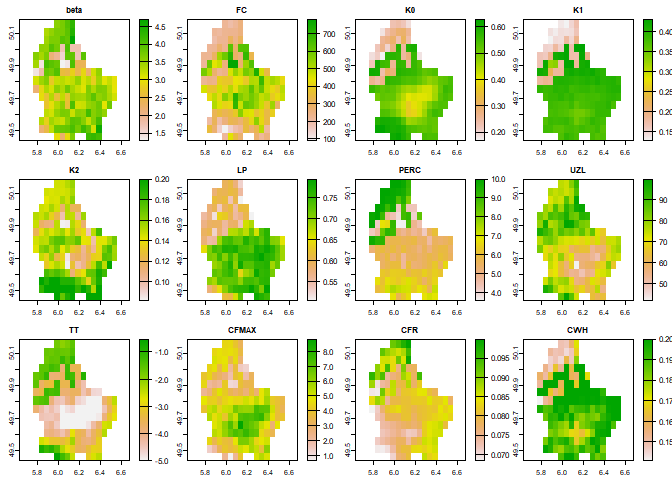
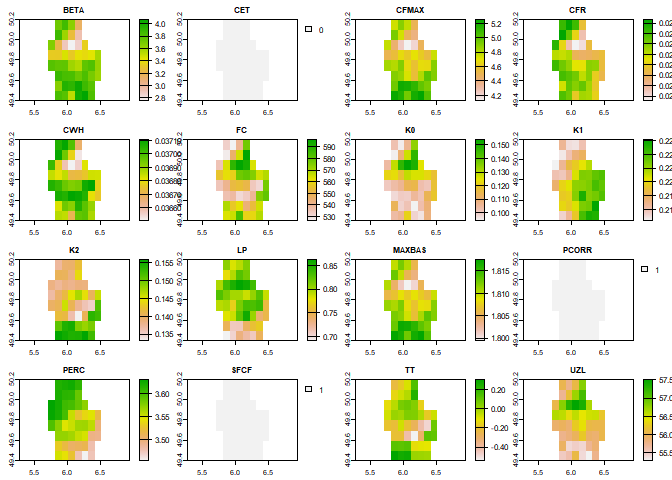
version v0.9 of the HBV dataset added

diff --git a/README.md b/README.md
@@ -1,7 +1,7 @@
 
 <!-- README.md is generated from README.Rmd. Please edit that file -->
 
-# HBVr <img src='man/figures/logo.svg' align="right" height="139" />
+# HBVr <img src='man/figures/logo.webp' align="right" height="139" />
 
 <!-- badges: start -->
 
@@ -57,20 +57,24 @@ zonal_stat <-
 #> Cropping rasters...
 
 zonal_stat
-#> $fold_1
-#>               mean
-#> beta    3.28827362
-#> FC    397.27255745
-#> K0      0.45688133
-#> K1      0.33620186
-#> K2      0.15122986
-#> LP      0.67929192
-#> PERC    6.54499855
-#> UZL    73.98409042
-#> TT     -3.25675583
-#> CFMAX   4.50942764
-#> CFR     0.08118668
-#> CWH     0.18391457
+#> $fold_0
+#>                mean
+#> BETA     3.59133975
+#> CET      0.00000000
+#> CFMAX    4.76274042
+#> CFR      0.02329523
+#> CWH      0.03688424
+#> FC     557.79513737
+#> K0       0.11312447
+#> K1       0.22010622
+#> K2       0.14379373
+#> LP       0.78630368
+#> MAXBAS   1.80986611
+#> PCORR    1.00000000
+#> PERC     3.55778855
+#> SFCF     1.00000000
+#> TT      -0.06733536
+#> UZL     56.14696222
 ```
 
 or retrieve a `SpatRaster` objects:

diff --git a/NEWS.md b/NEWS.md
@@ -1,3 +1,8 @@
+# HBVr 0.0.2
+
+* The new version (v0.9) of the HBV parameter dataset is added.
+
+
 # HBVr 0.0.1
 
 * The `HBVr` package released
